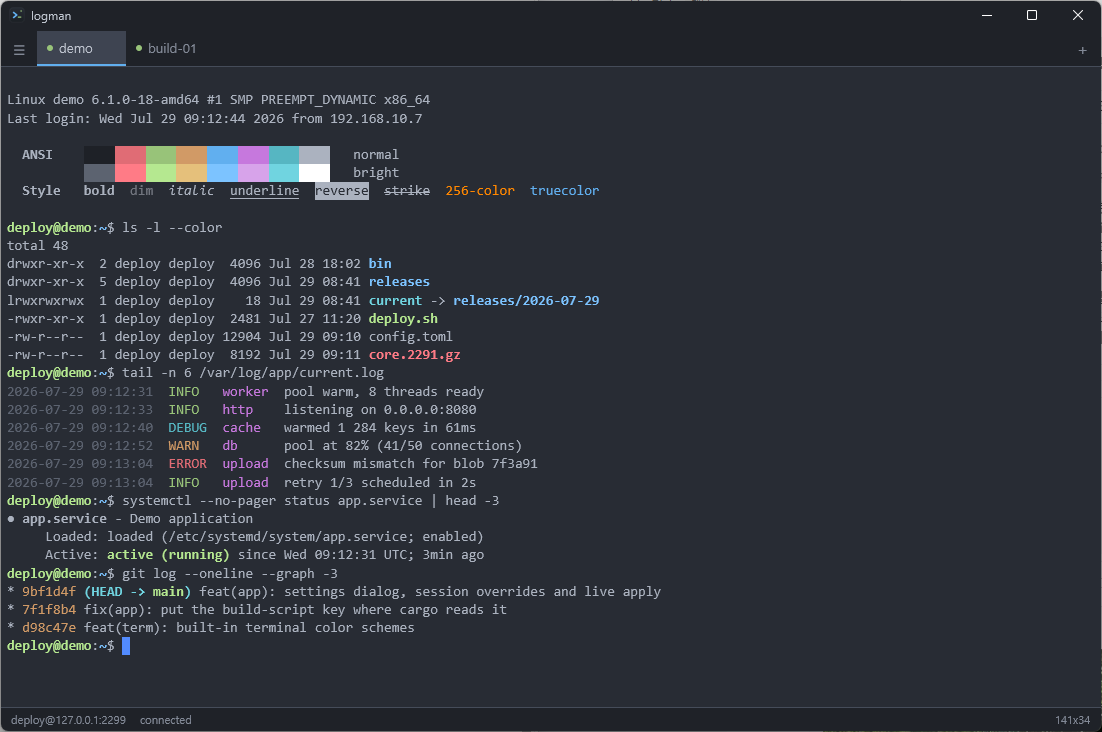
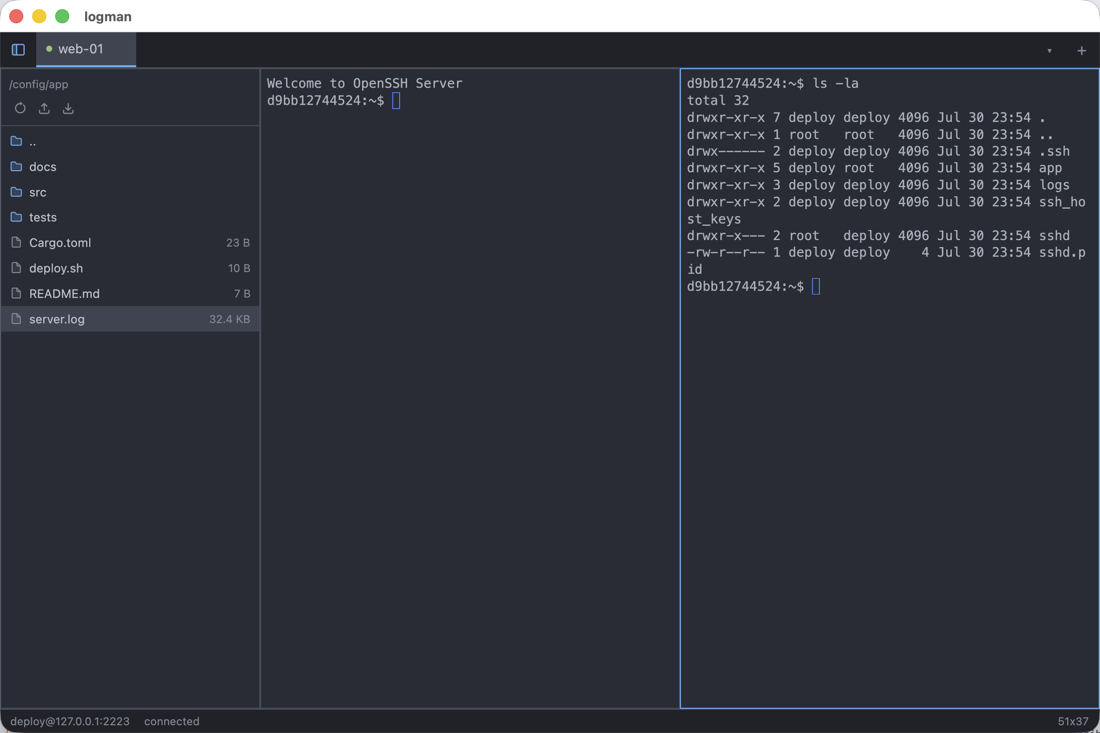
docs: refresh the screenshots and readme for panes and the file panel
Both screenshots are retaken on the current build — the main shot now
shows a split tab beside the remote files panel, the settings shot the
language and installed-font pickers — and the feature list, settings
section and test count catch up with what the app does today.

Changed region(s): [[0.0, 0.0, 1.0, 1.0], [0.4945, 0.2404, 0.5564, 0.2705], [0.4636, 0.6311, 0.4945, 0.6612]]

diff --git a/README.md b/README.md
@@ -8,10 +8,10 @@
 A multi-platform GUI SSH terminal written in Rust, built on
 [gpui](https://gpui.rs) — the GPU-accelerated UI framework behind the Zed editor.
 
-![logman running two SSH sessions in the One Dark theme](docs/screenshots/main-dark.png)
+![logman with two sessions in split panes and the remote files panel, in the One Dark theme](docs/screenshots/main-dark.png)
 
 <details>
-<summary>The settings dialog, with live previews of the six built-in color schemes</summary>
+<summary>The settings dialog: language, theme, live scheme previews, installed fonts</summary>
 
 ![The settings dialog](docs/screenshots/settings.png)
 
@@ -19,11 +19,18 @@ A multi-platform GUI SSH terminal written in Rust, built on
 
 - **Multiple sessions** in one window, as tabs, each with its own connection and
   scrollback.
+- **Split panes**: pull one tab in beside another and work in both sessions at
+  once; a pane closes itself when its connection ends.
+- **A remote files panel**: an SFTP browser beside the terminal that follows the
+  shell's working directory, with drag-and-drop upload and download.
 - **Password and private key authentication**, with secrets kept in the OS
   keychain rather than on disk.
 - **A real terminal**, not a log view: `alacritty_terminal` drives the emulation,
   so colors, cursor addressing, alternate screen and full-screen programs behave
   the way they do in any other terminal.
+- **Your language and your font**: the interface ships in eight languages,
+  follows the system locale, and the terminal font is picked from the fonts
+  installed on the machine.
 - **Trust on first use** host key checking, backed by a `known_hosts` file.
 
 ## Building
@@ -78,20 +85,80 @@ click **New session** to open the connection dialog. Fill in the host and user,
 pick an authentication method, and connect. The profile is saved automatically,
 so the next connection is one click from the empty-state screen.
 
+### Splitting a tab
+
+A tab shows one session per pane. To put two sessions side by side, right-click
+the tab you want to move and pick **Split right of current tab** or **Split
+below current tab**: that tab leaves the strip and its sessions appear next to
+the pane you are looking at. There is no shortcut for it, because a split has to
+say *which* tab to pull in. Right-clicking the active tab offers the reverse,
+moving its focused pane back out into a tab of its own.
+
+When a connection ends — the remote shell exits, or the server hangs up — its
+pane closes on its own: siblings grow into the space, a tab closes with its
+last pane, and closing the last tab returns to the start screen. A session
+that *failed* to connect stays visible instead, with the error and a
+Reconnect button.
+
+### Remote files panel
+
+The sidebar to the left of the terminal is an SFTP browser for the session in
+the focused pane. It rides on the same SSH connection over a channel of its
+own, so listing a directory or copying a file never holds up the shell — and
+the shell never holds up a transfer.
+
+<kbd>Ctrl</kbd>+<kbd>Shift</kbd>+<kbd>B</kbd> (<kbd>Cmd</kbd>+<kbd>B</kbd> on
+macOS) shows and hides it, as does the panel button left of the tab strip. It
+is shown by default.
+
+- Double-click a directory to enter it, or `..` to go up. Directories sort
+  before files, ignoring case.
+- **⟳** lists the directory again, **↑** uploads local files into it, and **↓**
+  saves the selected file locally.
+- **Dropping files onto the panel uploads them** into the directory on screen.
+  Folders are skipped rather than copied recursively.
+- Each session keeps its own directory, selection and scroll position, so
+  switching tabs or panes picks up where you left off.
+
+**The panel follows the remote shell's `cd`, but only if the shell says so.**
+Directory tracking is driven by the `OSC 7` escape sequence, which fish emits
+out of the box. bash and zsh need one line — this, in `~/.bashrc`:
+
+```bash
+PROMPT_COMMAND='printf "\033]7;file://%s%s\033\\" "$HOSTNAME" "$PWD"'
+```
+
+or in `~/.zshrc`:
+
+```zsh
+precmd() { printf '\033]7;file://%s%s\033\\' "$HOST" "$PWD" }
+```
+
+Without it the panel simply starts in the login directory and stays wherever
+you navigate it. Browsing by hand always wins until the shell announces a new
+directory, at which point the panel follows again.
+
 ### Shortcuts
 
 | Key | Action |
 | --- | --- |
 | <kbd>Ctrl</kbd>+<kbd>T</kbd> | New session |
-| <kbd>Ctrl</kbd>+<kbd>W</kbd> | Close the active tab |
+| <kbd>Ctrl</kbd>+<kbd>W</kbd> | Close the active pane, and the tab with its last one |
 | <kbd>Ctrl</kbd>+<kbd>1</kbd>…<kbd>9</kbd> | Switch to tab *n* |
+| <kbd>Alt</kbd>+<kbd>]</kbd> / <kbd>Alt</kbd>+<kbd>[</kbd> | Next / previous pane of the tab |
+| <kbd>Alt</kbd>+<kbd>Shift</kbd>+<kbd>B</kbd> | Move the active pane into its own tab |
+| <kbd>Ctrl</kbd>+<kbd>Shift</kbd>+<kbd>B</kbd> | Show or hide the remote files panel |
 | <kbd>Ctrl</kbd>+<kbd>Shift</kbd>+<kbd>C</kbd> | Copy the selection |
 | <kbd>Ctrl</kbd>+<kbd>Shift</kbd>+<kbd>V</kbd> | Paste |
 | <kbd>Esc</kbd> | Dismiss the connection dialog |
 | <kbd>Ctrl</kbd>+<kbd>Q</kbd> | Quit |
 
-On macOS every <kbd>Ctrl</kbd> above is <kbd>Cmd</kbd>, and copy/paste are plain
-<kbd>Cmd</kbd>+<kbd>C</kbd>/<kbd>V</kbd>.
+On macOS every <kbd>Ctrl</kbd> and <kbd>Alt</kbd> above is <kbd>Cmd</kbd>,
+copy/paste are plain <kbd>Cmd</kbd>+<kbd>C</kbd>/<kbd>V</kbd>, and the files
+panel is plain <kbd>Cmd</kbd>+<kbd>B</kbd>. The pane shortcuts use
+<kbd>Alt</kbd> elsewhere because <kbd>Ctrl</kbd>+<kbd>[</kbd> is ESC to a remote
+shell; the files panel takes the shifted chord for the same reason, since
+<kbd>Ctrl</kbd>+<kbd>B</kbd> is tmux's prefix key.
 
 Select text by dragging across the grid; scroll back with the mouse wheel.
 
@@ -113,11 +180,12 @@ keychain the application still runs; it just asks for the secret every time.
 ### Settings
 
 <kbd>Ctrl</kbd>+<kbd>,</kbd> (<kbd>Cmd</kbd>+<kbd>,</kbd> on macOS) opens the
-settings dialog: UI theme, terminal color scheme (One Dark, One Light,
+settings dialog: interface language (eight are built in; the default follows
+the system locale), UI theme, terminal color scheme (One Dark, One Light,
 Solarized Dark/Light, Gruvbox Dark, Dracula — each shown with a live
-preview), font family and size, scrollback depth, `TERM`, copy-on-select,
-window background opacity and blur, and the defaults applied to new
-connections. Everything lands in `settings.json` next to the profiles, is
+preview), font family — picked from the fonts installed on the machine — and
+size, scrollback depth, `TERM`, copy-on-select, window background opacity and
+blur, and the defaults applied to new connections. Everything lands in `settings.json` next to the profiles, is
 safe to edit by hand, and out-of-range values are clamped on load rather
 than breaking the app.
 
@@ -144,7 +212,7 @@ legitimately offer both an Ed25519 and an RSA host key.
 | Crate | Responsibility |
 | --- | --- |
 | `logman-core` | Profiles, OS keychain, `known_hosts`, config paths. No SSH, no GUI. |
-| `logman-ssh` | russh client: authentication, pty, shell, resize. Owns its own thread and Tokio runtime. |
+| `logman-ssh` | russh client: authentication, pty, shell, resize, and the SFTP channel behind the files panel. Owns its own thread and Tokio runtime. |
 | `logman-term` | `alacritty_terminal` wrapper: byte stream in, styled snapshot out; key encoding. No GUI. |
 | `logman-app` | The gpui binary: widgets, terminal rendering, session management. |
 
@@ -157,7 +225,7 @@ cannot stall a repaint.
 **The terminal model knows nothing about gpui, and the GUI knows nothing about
 russh.** `logman-term` turns bytes into a `TerminalSnapshot` of styled runs, and
 that is all the renderer sees. Both lower crates are testable without a window:
-of the 105 tests in the workspace, 68 need neither a GUI nor a network, and the
+of the 231 tests in the workspace, 189 need neither a GUI nor a network, and the
 rest need only loopback.
 
 ### Third-party libraries
@@ -168,10 +236,11 @@ The heavy lifting is done by these projects:
 | --- | --- |
 | [gpui](https://github.com/zed-industries/zed/tree/main/crates/gpui) | GPU-accelerated UI framework, from the Zed editor (vendored 0.2.2, [patched](#gpui-is-vendored-and-patched)) |
 | [russh](https://github.com/warp-tech/russh) | Pure-Rust SSH client: transport, authentication, pty and shell channels |
+| [russh-sftp](https://github.com/AspectUnk/russh-sftp) | SFTP client for the remote files panel, on a channel of the same connection |
 | [alacritty_terminal](https://github.com/alacritty/alacritty) | Terminal emulation: grid, VTE parsing, scrollback |
 | [tokio](https://github.com/tokio-rs/tokio) | Async runtime for the SSH transport thread |
 | [keyring](https://github.com/open-source-cooperative/keyring-rs) | OS credential store: Windows Credential Manager, macOS Keychain, Secret Service |
-| [directories](https://github.com/soc/directories-rs) | Per-platform configuration paths |
+| [directories](https://github.com/soc/directories-rs) | Per-platform configuration paths, and the home directory the save dialog opens in |
 
 Supporting crates:
 [serde](https://github.com/serde-rs/serde) /
@@ -225,8 +294,14 @@ and no external server is needed.
   exercised. Under it, <kbd>Esc</kbd> during composition *commits* the syllable
   and then leaves insert mode, which is the IME's own behavior rather than
   something logman chooses.
-- <kbd>Ctrl</kbd>+<kbd>T</kbd> and <kbd>Ctrl</kbd>+<kbd>W</kbd> are taken by the
-  application, so the remote shell never sees them.
+- <kbd>Ctrl</kbd>+<kbd>T</kbd>, <kbd>Ctrl</kbd>+<kbd>W</kbd> and the
+  <kbd>Alt</kbd> pane shortcuts are taken by the application, so the remote
+  shell never sees them.
+- **The remote files panel browses and transfers, nothing more.** No rename,
+  delete or new directory, no recursive folder upload, no percentage while a
+  transfer runs, and its width is fixed.
+- **Panes cannot be resized or rearranged by dragging**, and a split layout is
+  not remembered across restarts. A split is always an even one.
 - **Runtime palette changes are ignored.** A program that redefines colors with
   `OSC 4` / `OSC 10-11` will render with the static theme.
 - A selection is anchored to the viewport and is not re-anchored when the
